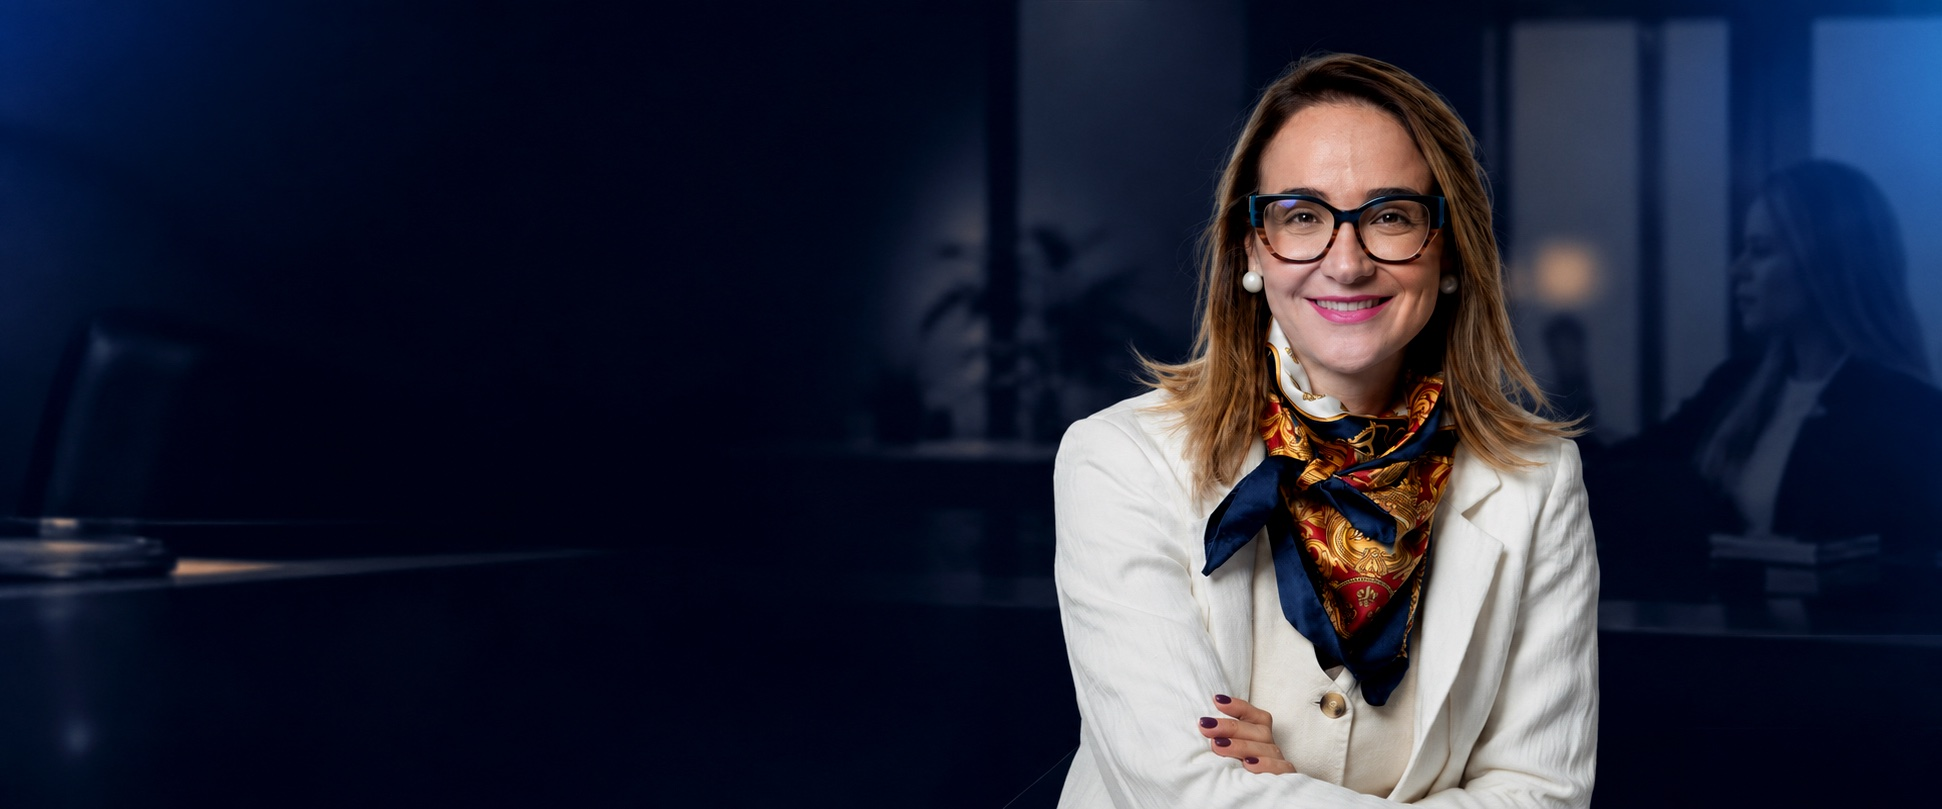
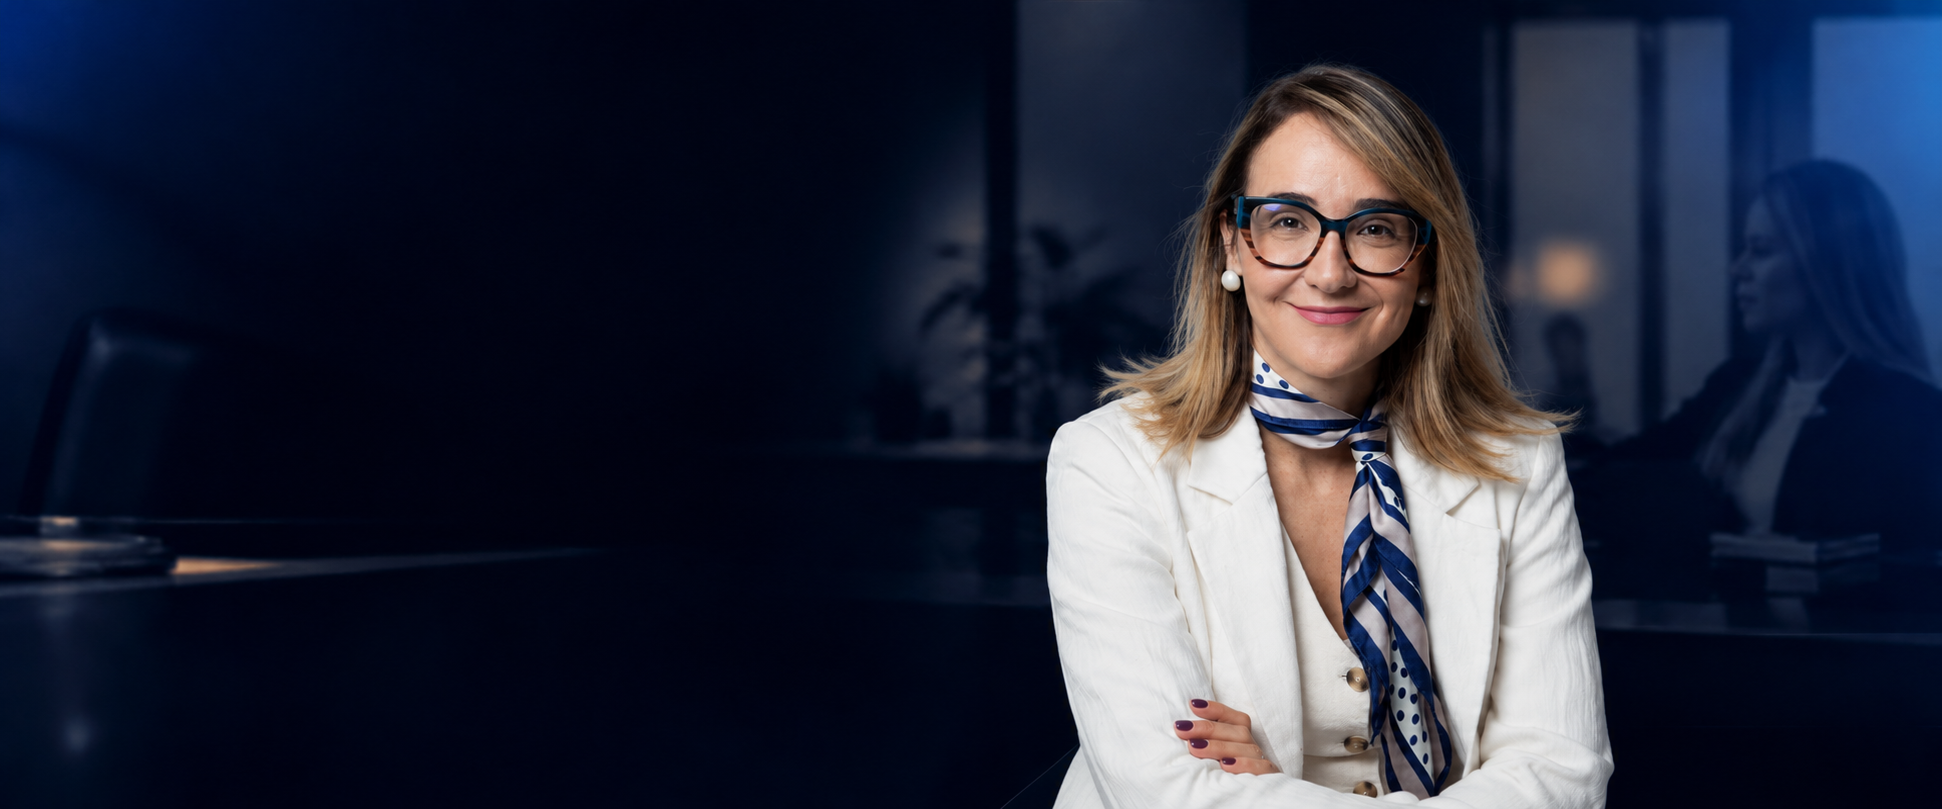
Update specialist photos, broaden audience copy, and simplify signup

Changed region(s): [[0.5252, 0.0618, 0.8342, 1.0], [0.0927, 0.6799, 0.1236, 0.7108]]

diff --git a/index.html b/index.html
@@ -32,7 +32,7 @@
 <header class="countdown-bar"><div class="container countdown-inner"><span class="reveal-label"><i></i>A OFERTA SERÁ REVELADA EM</span><div class="countdown" aria-label="Contagem regressiva para 17 de novembro às 20 horas"><div><b data-time="days">00</b><span>Dias</span></div><em>:</em><div><b data-time="hours">00</b><span>Horas</span></div><em>:</em><div><b data-time="minutes">00</b><span>Minutos</span></div><em>:</em><div><b data-time="seconds">00</b><span>Segundos</span></div></div><a href="#formacao" class="top-link">CONHEÇA A FORMAÇÃO <span><svg class="icon" viewBox="0 0 24 24" fill="none" stroke="currentColor" stroke-width="1.7" stroke-linecap="round" stroke-linejoin="round" aria-hidden="true" focusable="false"><path d="M5 19 19 5M5 5h14v14"/></svg></span></a></div></header>
 <main id="conteudo">
 <section class="hero" id="inicio">
-<img class="hero-image" src="assets/hero-amanda-original.png" alt="Amanda Athayde, professora e especialista em Direito Concorrencial" fetchpriority="high" width="1942" height="809">
+<img class="hero-image" src="assets/hero-amanda-black.jpg?v=20261026" alt="Amanda Athayde, professora e especialista em Direito Concorrencial" fetchpriority="high" width="1942" height="809">
 <div class="hero-shade"></div><div class="container hero-content">
 <div class="brand"><span class="brand-black">BLACK <em>FRIDAY</em></span><span class="brand-sub">PÓS-GRADUAÇÃO EM<br>DIREITO CONCORRENCIAL</span></div>
 <h1>A MAIOR OPORTUNIDADE DO ANO PARA QUEM QUER FAZER A <span>ÚNICA PÓS GRADUAÇÃO ONLINE EM DIREITO CONCORRENCIAL,</span> COM A MAIOR OFERTA DA HISTÓRIA</h1>
@@ -67,8 +67,8 @@
 <div class="extra-courses"><article><div class="extra-top"><span>02.</span><span class="price-tag">Valor: <s class="original-price">R$ 2.500,00</s></span></div><h3>Curso de Direito Administrativo Sancionador Concorrencial</h3><p>Amplie sua compreensão sobre o Direito Administrativo Sancionador aplicado ao contexto concorrencial.</p></article><article><div class="extra-top"><span>08.</span><span class="price-tag">Valor: <s class="original-price">R$ 997,00</s></span></div><h3>Curso Comércio Internacional, Defesa Comercial e Novos Instrumentos</h3><p>Conheça temas relacionados ao comércio internacional, à defesa comercial e aos novos instrumentos dessa área.</p></article></div>
 </div></section>
 <section class="offer section" id="oferta"><div class="section-divider" aria-hidden="true"><img src="assets/divisor 02.svg" width="541" height="31" alt=""></div><div class="container offer-grid"><div><div class="eyebrow"><span>03</span> A OPORTUNIDADE DO ANO</div><h2>VALOR TOTAL<br>DOS CONTEÚDOS</h2><s class="total original-total" aria-label="Valor original total: R$ 18.497,00">R$ <strong>18.497</strong><span>,00</span></s><div class="offer-mystery"><span>POR</span><strong>???</strong></div></div><div class="offer-copy"><span class="offer-star" aria-hidden="true"><svg class="icon" viewBox="0 0 24 24" fill="none" stroke="currentColor" stroke-width="1.7" stroke-linecap="round" stroke-linejoin="round" aria-hidden="true" focusable="false"><path d="M12 2v20M2 12h20M5 5l14 14M5 19 19 5"/></svg></span><p>Uma oportunidade de conhecer uma condição especial de Black Friday para acessar esse conjunto de formações e aprofundamentos jurídicos.</p><p class="offer-date">A condição especial será revelada em <strong>17 de novembro.</strong></p><button class="cta cta-light" data-signup><span class="cta-label">QUERO ME INSCREVER AGORA</span> <span class="cta-arrow"><svg class="icon" viewBox="0 0 24 24" fill="none" stroke="currentColor" stroke-width="1.7" stroke-linecap="round" stroke-linejoin="round" aria-hidden="true" focusable="false"><path d="M5 19 19 5M5 5h14v14"/></svg></span></button></div></div></section>
-<section class="audience section"><div class="section-divider" aria-hidden="true"><img src="assets/divisor 3.svg" width="541" height="31" alt=""></div><div class="container audience-grid"><div class="audience-head"><div class="eyebrow"><span>04</span> PARA QUEM QUER IR ALÉM</div><h2>SUA ATUAÇÃO EM DIREITO CONCORRENCIAL <em>PODE IR ALÉM</em></h2><p>Esta oportunidade foi pensada para profissionais que desejam aprofundar seus conhecimentos e desenvolver uma visão mais ampla sobre os desafios concorrenciais.</p><div class="audience-art" aria-hidden="true"><span>CONHECIMENTO</span><b>SEM<br>LIMITES.</b><span>DIREITO CONCORRENCIAL <svg class="icon" viewBox="0 0 24 24" fill="none" stroke="currentColor" stroke-width="1.7" stroke-linecap="round" stroke-linejoin="round" aria-hidden="true" focusable="false"><path d="M5 19 19 5M5 5h14v14"/></svg></span></div></div><div><p class="list-intro">É para você que:</p><ul class="audience-list"><li><span>01</span>Atua na advocacia e deseja se aprofundar em Direito Concorrencial.</li><li><span>02</span>Busca uma formação especializada para ampliar seu repertório jurídico.</li><li><span>03</span>Quer compreender melhor a análise de atos de concentração e condutas empresariais.</li><li><span>04</span>Trabalha ou deseja trabalhar com questões envolvendo o CADE e a defesa da concorrência.</li><li><span>05</span>Deseja estudar temas atuais, como mercados digitais, inteligência artificial, compliance e acordos sancionadores.</li></ul><p class="audience-end">Se você quer aprofundar sua formação e estudar o Direito Concorrencial sob diferentes perspectivas, fique atento à oportunidade que estamos preparando.</p><button class="cta" data-signup><span class="cta-label">QUERO ME INSCREVER AGORA</span> <span class="cta-arrow"><svg class="icon" viewBox="0 0 24 24" fill="none" stroke="currentColor" stroke-width="1.7" stroke-linecap="round" stroke-linejoin="round" aria-hidden="true" focusable="false"><path d="M5 19 19 5M5 5h14v14"/></svg></span></button></div></div></section>
-<section class="mentor section" id="amanda"><div class="section-divider" aria-hidden="true"><img src="assets/divisor 4.svg" width="541" height="31" alt=""></div><div class="container mentor-grid"><div class="mentor-portrait"><img src="assets/amanda-athayde-bio.jpg" alt="Amanda Athayde sentada em uma poltrona, usando um conjunto branco" loading="lazy" width="1067" height="1600"><div class="portrait-label"><span>CONHEÇA SUA PROFESSORA</span><strong>Amanda<br>Athayde<span><svg class="icon" viewBox="0 0 24 24" fill="none" stroke="currentColor" stroke-width="1.7" stroke-linecap="round" stroke-linejoin="round" aria-hidden="true" focusable="false"><path d="M5 19 19 5M5 5h14v14"/></svg></span></strong></div></div><div class="mentor-copy"><div class="eyebrow"><span>05</span> EXPERIÊNCIA QUE TRANSFORMA</div><h2>APRENDA COM QUEM UNE EXPERIÊNCIA <em>ACADÊMICA, PROFISSIONAL E INSTITUCIONAL</em></h2><p>Amanda Athayde é professora de Direito na Universidade de Brasília (UnB), onde foi aprovada em primeiro lugar no concurso público, doutora em Direito Comercial pela USP e advogada, parecerista e árbitra.</p><p>Foi coordenadora do Programa de Leniência Antitruste do CADE e ocupou cargos públicos estratégicos nas áreas de concorrência e defesa comercial, incluindo o de Subsecretária de Defesa Comercial e Interesse Público.</p><p>É escritora e autora de nove livros, além de organizadora de quinze obras e autora de centenas de artigos acadêmicos e de jornal.</p><p>Vencedora do Concurrences Antitrust Writing Awards em 2024, 2025 e 2026, reúne experiência acadêmica, atuação jurídica e vivência institucional em temas de Direito Concorrencial, comércio internacional e acordos sancionadores.</p><button class="cta cta-whatsapp" data-signup><span class="cta-label">QUERO ENTRAR NO GRUPO VIP</span> <span class="cta-arrow"><svg class="icon whatsapp-icon" viewBox="0 0 24 24" aria-hidden="true" focusable="false" fill="none" stroke="currentColor" stroke-width="1.7" stroke-linecap="round" stroke-linejoin="round"><path d="M20.5 11.7a8.5 8.5 0 0 1-12.6 7.5L3 20.5l1.3-4.8a8.5 8.5 0 1 1 16.2-4Z"/><path d="M8.4 7.5c-.4-.2-1 .3-1 1.1 0 3 3.6 6.6 6.7 7 .8.1 1.8-.6 1.9-1.3l-2.3-1.2-.9 1c-1.4-.5-2.7-1.8-3.2-3.2l1-.8-1.2-2.5Z"/></svg></span></button></div></div></section>
+<section class="audience section" id="para-quem"><div class="section-divider" aria-hidden="true"><img src="assets/divisor 3.svg" width="541" height="31" alt=""></div><div class="container audience-grid"><div class="audience-head"><div class="eyebrow"><span>04</span> PARA QUEM QUER IR ALÉM</div><h2>SUA ATUAÇÃO EM DIREITO CONCORRENCIAL <em>PODE IR ALÉM</em></h2><p>Esta oportunidade foi pensada para quem atua na advocacia, servidores públicos de diferentes áreas e estudantes na reta final da graduação que desejam aprofundar seus conhecimentos e desenvolver uma visão mais ampla sobre os desafios concorrenciais.</p><div class="audience-art" aria-hidden="true"><span>CONHECIMENTO</span><b>SEM<br>LIMITES.</b><span>DIREITO CONCORRENCIAL <svg class="icon" viewBox="0 0 24 24" fill="none" stroke="currentColor" stroke-width="1.7" stroke-linecap="round" stroke-linejoin="round" aria-hidden="true" focusable="false"><path d="M5 19 19 5M5 5h14v14"/></svg></span></div></div><div><p class="list-intro">É para você que:</p><ul class="audience-list"><li><span>01</span>Atua na advocacia e deseja se aprofundar em Direito Concorrencial.</li><li><span>02</span>Está na reta final da graduação e quer iniciar sua formação de pós-graduação em Direito Concorrencial para chegar à conclusão do curso com mais preparo.</li><li><span>03</span>Quer compreender melhor a análise de atos de concentração e condutas empresariais.</li><li><span>04</span>É servidor público, mesmo fora da área jurídica, e atua ou deseja atuar no CADE ou com a defesa da concorrência.</li><li><span>05</span>Deseja estudar temas atuais, como mercados digitais, inteligência artificial, compliance e acordos sancionadores.</li></ul><p class="audience-end">Se você quer aprofundar sua formação e estudar o Direito Concorrencial sob diferentes perspectivas, fique atento à oportunidade que estamos preparando.</p><button class="cta" data-signup><span class="cta-label">QUERO ME INSCREVER AGORA</span> <span class="cta-arrow"><svg class="icon" viewBox="0 0 24 24" fill="none" stroke="currentColor" stroke-width="1.7" stroke-linecap="round" stroke-linejoin="round" aria-hidden="true" focusable="false"><path d="M5 19 19 5M5 5h14v14"/></svg></span></button></div></div></section>
+<section class="mentor section" id="amanda"><div class="section-divider" aria-hidden="true"><img src="assets/divisor 4.svg" width="541" height="31" alt=""></div><div class="container mentor-grid"><div class="mentor-portrait"><img src="assets/amanda-athayde-bio.jpg?v=20261026" alt="Amanda Athayde de braços cruzados, usando blazer branco e lenço estampado" loading="lazy" width="760" height="939"><div class="portrait-label"><span>CONHEÇA SUA PROFESSORA</span><strong>Amanda<br>Athayde<span><svg class="icon" viewBox="0 0 24 24" fill="none" stroke="currentColor" stroke-width="1.7" stroke-linecap="round" stroke-linejoin="round" aria-hidden="true" focusable="false"><path d="M5 19 19 5M5 5h14v14"/></svg></span></strong></div></div><div class="mentor-copy"><div class="eyebrow"><span>05</span> EXPERIÊNCIA QUE TRANSFORMA</div><h2>APRENDA COM QUEM UNE EXPERIÊNCIA <em>ACADÊMICA, PROFISSIONAL E INSTITUCIONAL</em></h2><p>Amanda Athayde é professora de Direito na Universidade de Brasília (UnB), onde foi aprovada em primeiro lugar no concurso público, doutora em Direito Comercial pela USP e advogada, parecerista e árbitra.</p><p>Foi coordenadora do Programa de Leniência Antitruste do CADE e ocupou cargos públicos estratégicos nas áreas de concorrência e defesa comercial, incluindo o de Subsecretária de Defesa Comercial e Interesse Público.</p><p>É escritora e autora de nove livros, além de organizadora de quinze obras e autora de centenas de artigos acadêmicos e de jornal.</p><p>Vencedora do Concurrences Antitrust Writing Awards em 2024, 2025 e 2026, reúne experiência acadêmica, atuação jurídica e vivência institucional em temas de Direito Concorrencial, comércio internacional e acordos sancionadores.</p><button class="cta cta-whatsapp" data-signup><span class="cta-label">QUERO ENTRAR NO GRUPO VIP</span> <span class="cta-arrow"><svg class="icon whatsapp-icon" viewBox="0 0 24 24" aria-hidden="true" focusable="false" fill="none" stroke="currentColor" stroke-width="1.7" stroke-linecap="round" stroke-linejoin="round"><path d="M20.5 11.7a8.5 8.5 0 0 1-12.6 7.5L3 20.5l1.3-4.8a8.5 8.5 0 1 1 16.2-4Z"/><path d="M8.4 7.5c-.4-.2-1 .3-1 1.1 0 3 3.6 6.6 6.7 7 .8.1 1.8-.6 1.9-1.3l-2.3-1.2-.9 1c-1.4-.5-2.7-1.8-3.2-3.2l1-.8-1.2-2.5Z"/></svg></span></button></div></div></section>
 </main>
 <footer><div class="container footer-inner"><a class="footer-brand" href="#inicio">BLACK <span>FRIDAY</span><small>PÓS-GRADUAÇÃO EM DIREITO CONCORRENCIAL</small></a><span>Amanda Athayde · 2026</span><a href="#inicio" class="back-top" aria-label="Voltar ao topo"><svg class="icon" viewBox="0 0 24 24" fill="none" stroke="currentColor" stroke-width="1.7" stroke-linecap="round" stroke-linejoin="round" aria-hidden="true" focusable="false"><path d="M12 20V4m-7 7 7-7 7 7"/></svg></a></div></footer>
 <dialog id="signup-dialog" aria-labelledby="dialog-title">
@@ -79,8 +79,6 @@
 <div class="dialog-date">17 DE NOVEMBRO / 20hrs</div>
 <p class="form-intro">Preencha seus dados para entrar na lista e receber os detalhes da Black Friday.</p>
 <form id="signup-form" method="dialog">
-<label for="signup-name">Nome completo</label>
-<input id="signup-name" type="text" autocomplete="name" placeholder="Como podemos te chamar?" required minlength="2" maxlength="100">
 <label for="signup-email">E-mail</label>
 <input id="signup-email" type="email" autocomplete="email" placeholder="seuemail@exemplo.com" required maxlength="150">
 <label for="signup-phone">WhatsApp <small>com DDD</small></label>
